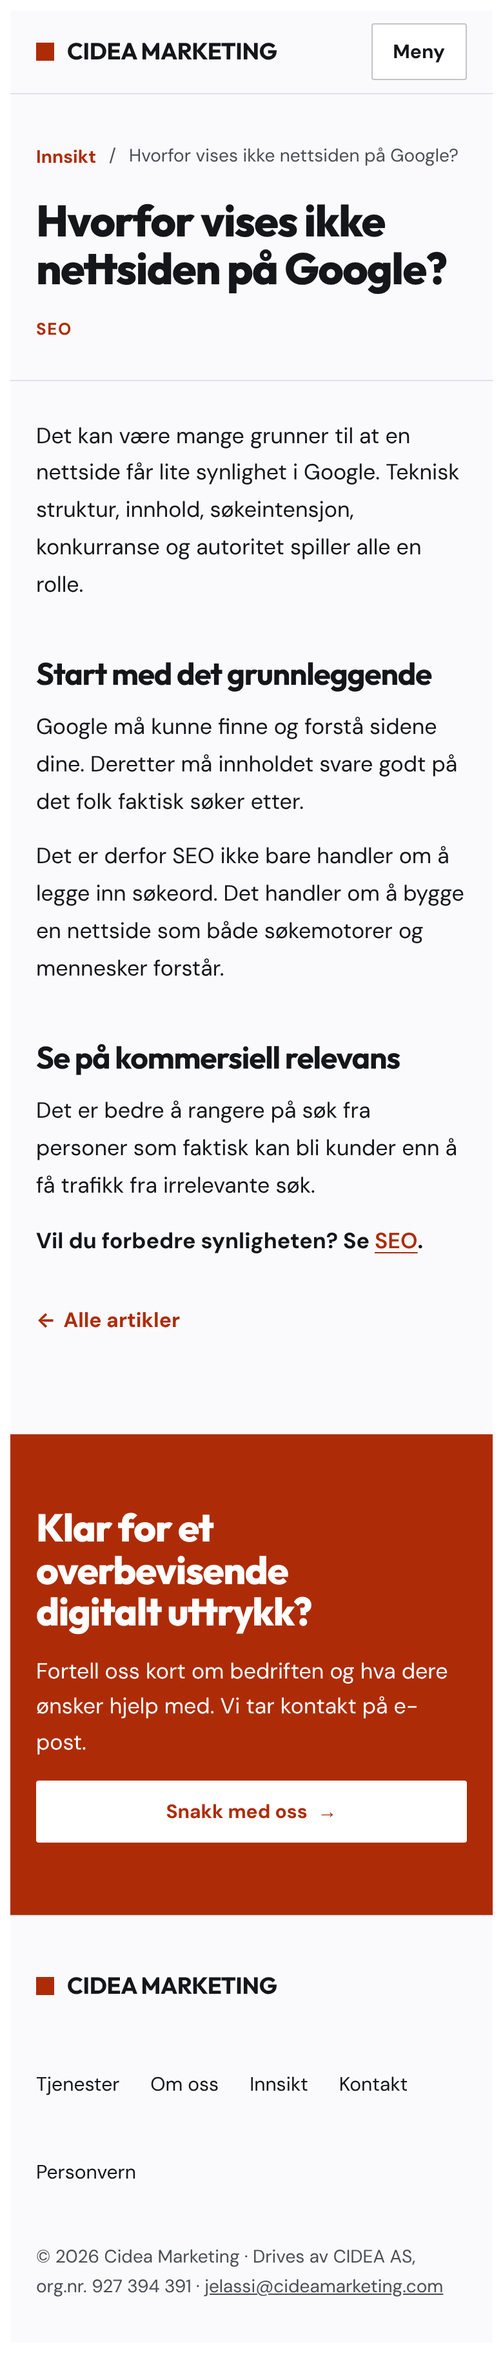
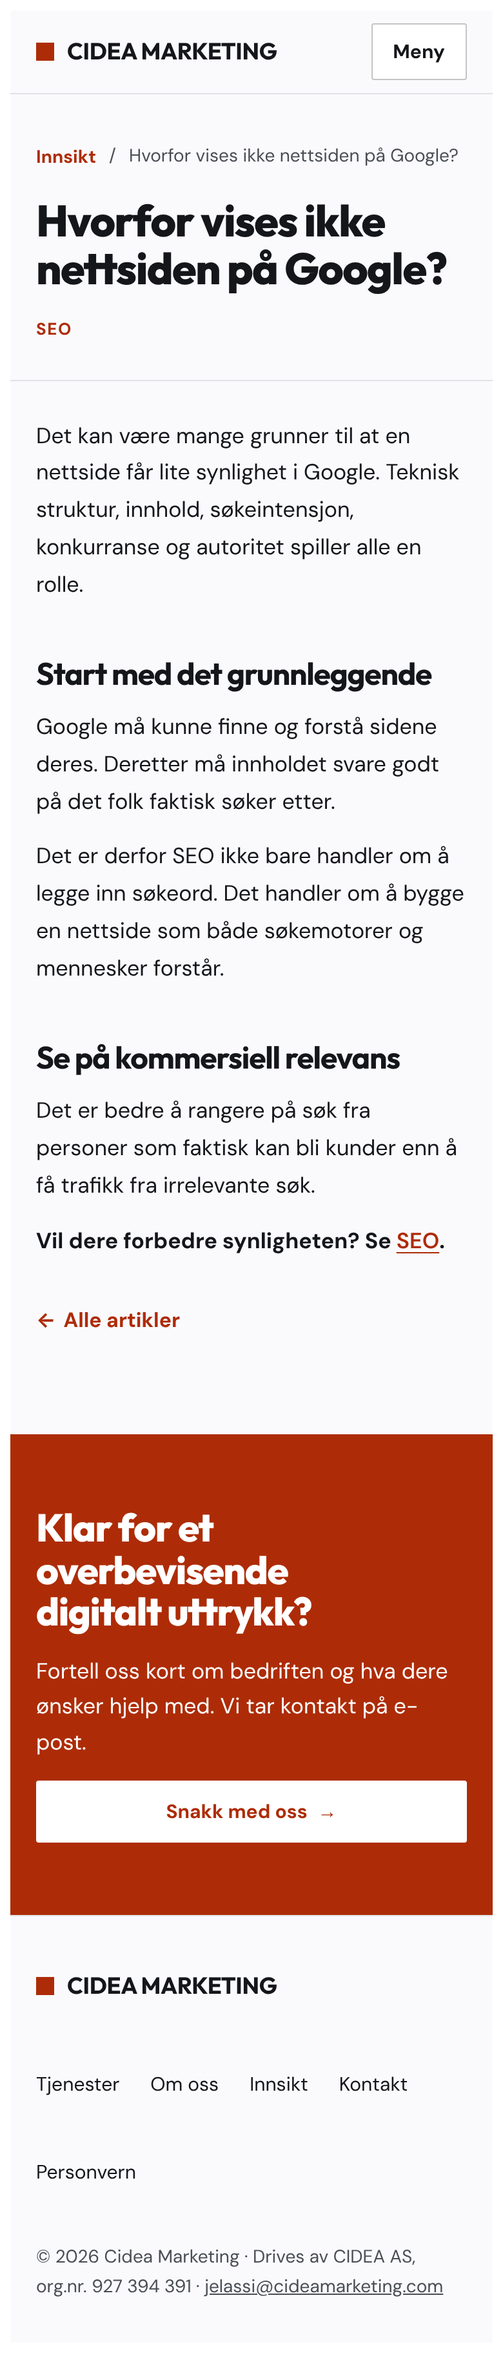
Fase 6: innholds- og funksjonsrevisjon
- Om oss: ny innledning (hva, hvem, hva vi tilbyr) og tjenesteoversikt; arbeidsprosess lenger ned
- Nytt verdibudskap på Tjenester og Om oss
- «dere» konsekvent i artikler, skjemafeil og Takk
- Nettleservalidering uten JavaScript; egne feil med JavaScript (tester S10a/S10b)
- E-postfeltet heter email (svaradresse i Netlify-varsel) og skjult subject
- Netlify-veiledning for eier; MOTTAK_BEKREFTET fortsatt false

Claude-Session: https://claude.ai/code/session_01NyXgMb2oFJFwpjEZkEWrv9

diff --git a/src/kontakt/Kontakt.jsx b/src/kontakt/Kontakt.jsx
@@ -1,4 +1,4 @@
-import React, { useRef, useState } from "react";
+import React, { useEffect, useRef, useState } from "react";
 import "../forside/forside.css";
 import "../sider/sider.css";
 import { Ramme, useMeta } from "../forside/Ramme.jsx";
@@ -8,6 +8,10 @@ import { selskap } from "../sider/tjenester-innhold.js";
 // Netlify finner skjemaet i den forhåndsrendrede HTML-en (data-netlify) ved deploy. Med JavaScript sendes det med
 // fetch og siden viser lasting, feil eller bekreftelse; uten JavaScript sendes det vanlig til /kontakt/takk.
 // Bekreftelse vises bare ved et vellykket svar (HTTP 2xx). Ingen falsk suksessmelding.
+// Validering: den forhåndsrendrede HTML-en har nettleserens egen validering (required, type=email, minlength), som
+// gjelder uten JavaScript. Når JavaScript er lastet, slås den av (noValidate) og erstattes av tilgjengelige feltfeil
+// og feiloppsummering. Klientsidevalidering er ingen beskyttelse på serveren; Netlify tar imot det som sendes.
+// Feltet heter «email» slik at Netlify bruker avsenderen som svaradresse i e-postvarselet; «subject» er emnelinjen.
 // MOTTAK_BEKREFTET settes til true først når eier har aktivert skjemaregistrering og e-postvarsel hos Netlify
 // og en testhenvendelse faktisk er mottatt (se docs/cinematic-pilot/phase6/README.md).
 const MOTTAK_BEKREFTET = false;
@@ -17,10 +21,10 @@ const tomFeil = {};
 
 function valider(data) {
   const f = {};
-  if (!data.get("navn")?.trim()) f.navn = "Skriv inn navnet ditt.";
-  const e = data.get("epost")?.trim() || "";
-  if (!e) f.epost = "Skriv inn e-postadressen din.";
-  else if (!/^[^\s@]+@[^\s@]+\.[^\s@]{2,}$/.test(e)) f.epost = "E-postadressen ser ikke riktig ut. Eksempel: navn@bedrift.no";
+  if (!data.get("navn")?.trim()) f.navn = "Skriv inn navn.";
+  const e = data.get("email")?.trim() || "";
+  if (!e) f.email = "Skriv inn e-postadresse.";
+  else if (!/^[^\s@]+@[^\s@]+\.[^\s@]{2,}$/.test(e)) f.email = "E-postadressen ser ikke riktig ut. Eksempel: navn@bedrift.no";
   if (!data.get("tema")) f.tema = "Velg hva henvendelsen gjelder.";
   const m = data.get("melding")?.trim() || "";
   if (m.length < 10) f.melding = "Skriv en kort melding (minst 10 tegn).";
@@ -35,6 +39,8 @@ export default function Kontakt() {
   });
   const [status, setStatus] = useState("klar"); // klar | sender | sendt | feil
   const [feil, setFeil] = useState(tomFeil);
+  const [js, setJs] = useState(false); // false i forhåndsrendret HTML → nettleserens validering uten JavaScript
+  useEffect(() => setJs(true), []);
   const oppsummering = useRef(null);
   const bekreftelse = useRef(null);
   const feilmelding = useRef(null);
@@ -84,8 +90,9 @@ export default function Kontakt() {
               <p>Takk. Vi leser henvendelsen og svarer på e-post.</p>
             </div>
           ) : (
-            <form name="kontakt" method="POST" action="/kontakt/takk" data-netlify="true" netlify-honeypot="bot-felt" noValidate onSubmit={send}>
+            <form name="kontakt" method="POST" action="/kontakt/takk" data-netlify="true" netlify-honeypot="bot-felt" noValidate={js} onSubmit={send}>
               <input type="hidden" name="form-name" value="kontakt" />
+              <input type="hidden" name="subject" value="Ny henvendelse fra cideamarketing.com (%{submissionId})" />
               <p className="sd-honning" aria-hidden="true"><label>Ikke fyll ut dette feltet <input name="bot-felt" tabIndex={-1} autoComplete="off" /></label></p>
 
               {antallFeil > 0 && (
@@ -105,23 +112,23 @@ export default function Kontakt() {
                 <input {...felt("bedrift")} type="text" autoComplete="organization" />
               </div>
               <div className="sd-felt">
-                <label htmlFor="k-epost">E-post</label>
-                <input {...felt("epost", true)} type="email" autoComplete="email" inputMode="email" required />
-                <p className="sd-hjelp" id="k-epost-hjelp">Vi svarer på denne adressen.</p>
-                <Feil navn="epost" />
+                <label htmlFor="k-email">E-post</label>
+                <input {...felt("email", true)} type="email" autoComplete="email" inputMode="email" required />
+                <p className="sd-hjelp" id="k-email-hjelp">Vi svarer på denne adressen.</p>
+                <Feil navn="email" />
               </div>
               <fieldset className="sd-felt" aria-describedby={feil.tema ? "k-tema-feil" : undefined}>
                 <legend>Hva gjelder det?</legend>
                 <div className="sd-valg">
                   {temaer.map((t, i) => (
-                    <label key={t} className="sd-valg-alt"><input type="radio" id={`k-tema-${i}`} name="tema" value={t} aria-invalid={feil.tema ? "true" : undefined} /> {t}</label>
+                    <label key={t} className="sd-valg-alt"><input type="radio" id={`k-tema-${i}`} name="tema" value={t} required aria-invalid={feil.tema ? "true" : undefined} /> {t}</label>
                   ))}
                 </div>
                 <Feil navn="tema" />
               </fieldset>
               <div className="sd-felt">
                 <label htmlFor="k-melding">Melding</label>
-                <textarea {...felt("melding", true)} rows={6} required />
+                <textarea {...felt("melding", true)} rows={6} required minLength={10} />
                 <p className="sd-hjelp" id="k-melding-hjelp">Fortell kort om bedriften og hva dere ønsker hjelp med.</p>
                 <Feil navn="melding" />
               </div>

diff --git a/src/sider/Sider.jsx b/src/sider/Sider.jsx
@@ -72,7 +72,7 @@ export function Tjenester() {
                 <h2><a href={t.sti}>{t.navn}</a></h2>
                 <p className="sd-tjeneste-ingress">{t.ingress}</p>
                 <p>{t.behov}</p>
-                <a className="sd-lenke" href={t.sti} aria-hidden="true" tabIndex={-1}>Les om {t.navn.toLowerCase()} <span>→</span></a>
+                <a className="sd-lenke" href={t.sti} aria-hidden="true" tabIndex={-1}>Les om {t.navn === "SEO" ? t.navn : t.navn.toLowerCase()} <span>→</span></a>
               </li>
             ))}
           </ul>
@@ -80,8 +80,8 @@ export function Tjenester() {
       </section>
       <section className="cm-seksjon cm-lys sd-seksjon" aria-labelledby="usikker">
         <div className="cm-wrap sd-smal">
-          <h2 id="usikker">Usikre på hva dere trenger?</h2>
-          <p>Vi anbefaler det minste tiltaket som hjelper. Noen ganger er dagens nettside god nok og trenger bare forbedringer. Da sier vi det.</p>
+          <h2 id="usikker">Riktige tiltak for bedriften deres</h2>
+          <p>Vi tar utgangspunkt i målene deres og prioriterer tiltakene som støtter dem. Noen ganger betyr det å forbedre det dere allerede har. Andre ganger trengs en ny løsning.</p>
           <a className="cm-knapp" href="/kontakt">Snakk med oss <span aria-hidden="true">→</span></a>
         </div>
       </section>
@@ -126,10 +126,22 @@ export function TjenesteSide({ t }) {
 
 /* ---------- Om oss ---------- */
 export function OmOss() {
-  useMeta({ tittel: "Om oss | Cidea Marketing", beskrivelse: "Slik jobber Cidea Marketing – fra første avklaring til videreutvikling.", sti: "/om-oss" });
+  useMeta({ tittel: "Om oss | Cidea Marketing", beskrivelse: "Cidea Marketing hjelper bedrifter med nettsider, merkevarebygging, SEO og digital markedsføring.", sti: "/om-oss" });
   return (
     <Ramme aktiv="/om-oss">
-      <Sidehode tittel="Slik jobber vi – fra første avklaring til videreutvikling." ingress="Vi jobber med bedrifter over tid: fra første avklaring til videreutvikling etter lansering." />
+      <Sidehode tittel="Om Cidea Marketing" ingress="Cidea Marketing hjelper bedrifter med å bli enklere å forstå, finne og velge på nett. Vi lager nettsider, bygger merkevarer og jobber med SEO og digital markedsføring – og kan videreutvikle løsningene etter lansering." />
+      <section className="cm-seksjon sd-seksjon sd-tett" aria-labelledby="tilbyr">
+        <div className="cm-wrap sd-to">
+          <h2 id="tilbyr">Hva vi tilbyr</h2>
+          <dl className="sd-rader">{tjenesteSider.map(t => <div key={t.sti}><dt><a href={t.sti}>{t.navn}</a></dt><dd>{t.ingress}</dd></div>)}</dl>
+        </div>
+      </section>
+      <section className="cm-seksjon cm-lys sd-seksjon" aria-labelledby="anbefalinger">
+        <div className="cm-wrap sd-to">
+          <h2 id="anbefalinger">Anbefalinger ut fra målene deres</h2>
+          <p className="sd-brod">Vi anbefaler det som faktisk støtter målene deres, ikke mest mulig. Er nettsiden eller merkevaren dere har god nok, sier vi det og foreslår forbedringer i stedet for noe nytt.</p>
+        </div>
+      </section>
       <Steg tittel="Slik jobber vi" id="slik" steg={[
         ["Avklare behov", "Vi går gjennom virksomheten, målgruppen og målene."],
         ["Designe og utvikle", "Vi lager struktur, design og innhold og bygger løsningen."],
@@ -146,13 +158,7 @@ export function OmOss() {
           </ul>
         </div>
       </section>
-      <section className="cm-seksjon cm-lys sd-seksjon" aria-labelledby="minste">
-        <div className="cm-wrap sd-to">
-          <h2 id="minste">Det minste tiltaket som hjelper</h2>
-          <p className="sd-brod">Vi selger ikke en ny nettside når den dere har, er god nok. Vi anbefaler det minste tiltaket som hjelper, og bygger videre derfra.</p>
-        </div>
-      </section>
-      <section className="cm-seksjon sd-seksjon" aria-labelledby="selskapet">
+      <section className="cm-seksjon cm-lys sd-seksjon" aria-labelledby="selskapet">
         <div className="cm-wrap sd-to">
           <h2 id="selskapet">Selskapet</h2>
           <div className="sd-brod">
@@ -245,7 +251,7 @@ export function Takk() {
   useMeta({ tittel: "Henvendelsen er sendt | Cidea Marketing", beskrivelse: "Bekreftelse på henvendelse.", sti: "/kontakt/takk" });
   return (
     <Ramme aktiv="/kontakt">
-      <Sidehode tittel="Henvendelsen er sendt" ingress="Når du kommer hit etter å ha sendt skjemaet, har skjemaløsningen tatt imot meldingen. Vi leser henvendelsen og svarer på e-post." />
+      <Sidehode tittel="Henvendelsen er sendt" ingress="Takk for henvendelsen. Skjemaløsningen har tatt imot meldingen, og vi svarer på e-post." />
       <div className="cm-wrap sd-avslutt"><a className="cm-lenke" href="/tjenester">Se tjenestene <span aria-hidden="true">→</span></a></div>
     </Ramme>
   );

diff --git a/src/ruter.jsx b/src/ruter.jsx
@@ -16,7 +16,7 @@ export const ruter = {
   // Prototype og foreslått forside i forhåndsvisningsflyten (fase 5, ikke godkjent): skal ikke indekseres.
   "/konsept-scroll": { komponent: KonseptScroll, tittel: "Konsept: Fra ord til gjennomslag | Cidea Marketing", beskrivelse: "Prototype av en scrollstyrt forside for Cidea Marketing. Ikke publisert som forside.", robots: "noindex, nofollow" },
   "/tjenester": { komponent: Tjenester, tittel: "Tjenester | Cidea Marketing", beskrivelse: "Nettsider, merkevarebygging, SEO og digital markedsføring for bedrifter." },
-  "/om-oss": { komponent: OmOss, tittel: "Om oss | Cidea Marketing", beskrivelse: "Slik jobber Cidea Marketing – fra første avklaring til videreutvikling." },
+  "/om-oss": { komponent: OmOss, tittel: "Om oss | Cidea Marketing", beskrivelse: "Cidea Marketing hjelper bedrifter med nettsider, merkevarebygging, SEO og digital markedsføring." },
   "/blog": { komponent: Innsikt, tittel: "Innsikt | Cidea Marketing", beskrivelse: "Artikler om nettsider, synlighet og merkevare." },
   "/kontakt": { komponent: Kontakt, tittel: "Kontakt | Cidea Marketing", beskrivelse: "Ta kontakt med Cidea Marketing om nettsider, merkevarebygging, SEO eller digital markedsføring." },
   "/kontakt/takk": { komponent: Takk, tittel: "Henvendelsen er sendt | Cidea Marketing", beskrivelse: "Bekreftelse på henvendelse.", robots: "noindex, follow" },

diff --git a/src/sider/sider.css b/src/sider/sider.css
@@ -30,6 +30,7 @@
 .sd-rader > div { display: grid; grid-template-columns: minmax(0, 2fr) minmax(0, 3fr); gap: 4px 32px; padding: 18px 0; border-top: 1px solid rgba(20, 22, 25, .14); }
 .sd-rader > div:last-child { border-bottom: 1px solid rgba(20, 22, 25, .14); }
 .sd-rader dt { font: 600 19px/1.35 "Outfit", system-ui, sans-serif; }
+.sd-rader dt a { color: var(--dyp); text-underline-offset: 4px; display: inline-flex; min-height: 24px; align-items: center; }
 .sd-rader dd { margin: 0; color: var(--dempet); }
 
 /* Punktlister uten nummerering */

diff --git a/docs/cinematic-pilot/phase6/README.md b/docs/cinematic-pilot/phase6/README.md
@@ -11,12 +11,12 @@ Forhåndsvisning: `https://deploy-preview-13--cideamarketing.netlify.app` + stie
 |---|---|---|---|
 | Foreslått forside (arbeidsversjon) | `/konsept-scroll` | Uendret prototype med bevegelse og bildeplassholder. `noindex, nofollow` | Fase 5 |
 | Ordinær forside | `/` | Uendret innhold, ny meny | Fase 5 |
-| Tjenester | `/tjenester` (ny) | Fire tjenester med behov og lenke, «det minste tiltaket som hjelper» | Fase 3-tekst + nye utkast |
+| Tjenester | `/tjenester` (ny) | Fire tjenester med behov og lenke, «Riktige tiltak for bedriften deres» | Fase 3-tekst + nye utkast |
 | Nettsider | `/websites` | Behov, leveranse (6), samarbeid (3 steg), videre, tre relevante artikler | Fase 3-skisse Nettsider |
 | Merkevarebygging | `/branding` | Behov, leveranse (6), samarbeid, videre | Fase 3-skisse Merkevarebygging |
 | SEO | `/seo` | Behov, leveranse (5), samarbeid, videre (ingen rangeringsløfter), én artikkel | Fase 3-skisse SEO |
 | Digital markedsføring og sosiale medier | `/digital-marketing` | Behov, leveranse (6, inkl. innhold for sosiale medier), samarbeid, videre (annonsebudsjett i tillegg) | Fase 3-skisse Digital markedsføring |
-| Om oss | `/om-oss` (ny) | Arbeidsmåte, hva dere kan forvente, «det minste tiltaket», bekreftede selskapsopplysninger | Fase 3-skisse Tilnærming, `commercial-offer.md`, Enhetsregisteret |
+| Om oss | `/om-oss` (ny) | Hva Cidea Marketing er og tilbyr, anbefalinger ut fra målene, arbeidsmåte, hva dere kan forvente, bekreftede selskapsopplysninger | Fase 3-skisse Tilnærming, `commercial-offer.md`, Enhetsregisteret |
 | Innsikt | `/blog` | De fire eksisterende artiklene | `blog/*.md` |
 | Artikler | `/blog/{slug}` × 4 | Hele artikkelteksten fra `blog/*.md` (før vistes bare ingressen) | `blog/*.md` |
 | Kontakt | `/kontakt` | Skjema, direkte e-post, selskapsopplysninger | Fase 3-skisse Kontakt |
@@ -33,8 +33,8 @@ Forhåndsvisning: `https://deploy-preview-13--cideamarketing.netlify.app` + stie
 | Del | Status |
 |---|---|
 | Teknikk | Netlify Forms, en del av eksisterende hosting. Skjemaet `kontakt` ligger i forhåndsrendret HTML (`data-netlify="true"`, `netlify-honeypot="bot-felt"`). Ingen nøkler eller hemmeligheter i koden, og ingen ny tjeneste |
-| Felt | Navn, bedrift (valgfritt), e-post, hva gjelder det (Nettsider, Merkevarebygging, SEO, Digital markedsføring, Annet), melding |
-| Validering | Påkrevde felt, e-postformat, minst 10 tegn i melding, feil per felt (`aria-invalid`, `aria-describedby`) og feiloppsummering med fokus |
+| Felt | Navn, bedrift (valgfritt), e-post (`name="email"`, slik at Netlify setter avsenderen som svaradresse i varselet), hva gjelder det (Nettsider, Merkevarebygging, SEO, Digital markedsføring, Annet), melding. Skjult `subject`: «Ny henvendelse fra cideamarketing.com (%{submissionId})» |
+| Validering | **Uten JavaScript:** nettleserens egen validering i den forhåndsrendrede HTML-en (`required` på navn, e-post, tema og melding, `type=email`, `minlength=10`). Ugyldig skjema sendes ikke. **Med JavaScript:** `novalidate` settes etter lasting, og egne feil per felt (`aria-invalid`, `aria-describedby`) og feiloppsummering med fokus tar over. Klientsidevalidering er ingen beskyttelse på serveren: Netlify tar imot det som sendes direkte |
 | Lasting, feil, bekreftelse | «Sender …» med deaktivert knapp. Ved feil: «Henvendelsen ble ikke sendt» med e-post som alternativ. Bekreftelsen vises **bare ved HTTP 2xx** |
 | Spam | Skjult honningfelle (stopper innsending i nettleseren; Netlify forkaster den i tillegg) |
 | Uten JavaScript | Vanlig POST til `/kontakt/takk` |
@@ -42,12 +42,20 @@ Forhåndsvisning: `https://deploy-preview-13--cideamarketing.netlify.app` + stie
 | **Ikke testet** | **Faktisk innsending til Netlify og mottak på e-post.** Det krever tilgang til Netlify, som skyøkten ikke har |
 | Ærlig merknad på siden | Til mottak er bekreftet, står det synlig at mottak ikke er bekreftet, med e-postadressen som alternativ (`MOTTAK_BEKREFTET = false` i `src/kontakt/Kontakt.jsx`) |
 
-**Konfigurasjon eier må gjøre før skjemaet kan tas i bruk:**
-1. Netlify → prosjektet `cideamarketing` → **Forms** → slå på skjemaregistrering (form detection), hvis den er av. Bygg forhåndsvisningen på nytt, og kontroller at skjemaet «kontakt» vises i listen.
-2. **Forms → Form notifications** → legg til e-postvarsel til `jelassi@cideamarketing.com` for skjemaet «kontakt».
-3. Send en testhenvendelse fra forhåndsvisningen. Kontroller at den vises i Netlify (Forms → kontakt) **og** kommer fram på e-post.
-4. Fastsett lagringstid for henvendelser, og om Netlifys overføringsgrunnlag skal beskrives. Hullet er tydelig merket på `/personvern`.
-5. Deretter: sett `MOTTAK_BEKREFTET = true`, og fjern merknaden.
+**Netlify-test – veiledning til eier** (ingen kontoinnstillinger er endret og ingen testinnsending er gjort fra skyøkten):
+
+Kilder: Netlifys offisielle dokumentasjon (Forms setup, Form notifications) via søk, og Netlifys egen skjemaveiledning i `@netlify/agent-runner-cli` 2.4.0. `docs.netlify.com` kunne ikke åpnes direkte fra skyøkten, så navn på menyvalg kan avvike litt.
+
+Kontrollert i forhåndsrendret HTML (`dist/kontakt/index.html`): `<form name="kontakt" data-netlify="true" netlify-honeypot="bot-felt" action="/kontakt/takk" method="POST">` med skjult `form-name=kontakt`. Siden er statisk HTML, så Netlify kan finne skjemaet ved deploy uten ekstra skjelettfil.
+
+1. **Slå på skjemaregistrering:** Netlify → prosjektet `cideamarketing` → **Forms**. Står det «Enable form detection», trykk på den. Det virker først fra neste deploy, så start en ny deploy av PR-forhåndsvisningen (Deploys → Trigger deploy, eller en ny commit).
+2. **Kontroller registreringen:** under **Forms** skal skjemaet **«kontakt»** vises etter deployen. Vises det ikke, sjekk deployloggen («form detection»).
+3. **E-postvarsel:** **Project configuration → Notifications → Emails and webhooks → Form submission notifications → Add notification → Email notification**. Skjema: «kontakt». E-post: `jelassi@cideamarketing.com`. Lagre.
+4. **Test innsending:** åpne `https://deploy-preview-13--cideamarketing.netlify.app/kontakt`, fyll ut med reelle testdata og send. Forventet: «Henvendelsen er sendt».
+5. **Bekreft mottak:** Netlify → Forms → kontakt: henvendelsen skal ligge der (sjekk også **Spam**-listen). Innboksen `jelassi@cideamarketing.com` skal få varselet med emnet «Ny henvendelse fra cideamarketing.com (…)». Svar-knappen skal gå til avsenderens adresse.
+6. **Gi beskjed** om resultatet. Først etter bekreftet mottak i både Netlify og innboks settes `MOTTAK_BEKREFTET = true` (Claude gjør endringen).
+
+Gratisplanen har 100 innsendinger i måneden. Personvernhullene (lagringstid for henvendelser og om Netlifys overføringsgrunnlag skal beskrives) er **ikke løst**. De er fortsatt merket på `/personvern` og må avklares av eier før skjemaet tas i bruk.
 
 Skillet: «testet innsending» betyr at nettleseren fikk et 2xx-svar. «Bekreftet mottak» betyr at meldingen faktisk er sett i Netlify og i innboksen. Ingen av delene er gjort ennå.
 
@@ -59,17 +67,35 @@ Skillet: «testet innsending» betyr at nettleseren fikk et 2xx-svar. «Bekrefte
 
 ## Tekst til godkjenning (ChatGPT/eier)
 
-- Nye utkast: «Hva vi hjelper med» og «Videre etter leveransen» på hver tjenesteside, ingressen på Tjenester og Om oss-teksten «Det minste tiltaket som hjelper». Dette er ny tekst; resten er fra fase 3 eller artiklene.
-- Ord fra fase 3-skissene som lovet mer enn vi kan dokumentere er dempet («alltid fungerer», «autoritært uttrykk», «størst effekt», «basert på resultater»).
-- Artiklene bruker «du» og «din» (eksisterende tekst, uendret). Bare lenker til sider som ikke fantes er rettet (`/contact` → `/kontakt`, `./x.md` → `/blog/x`).
-- Om oss-H1 er ChatGPT-vedtaket for Tilnærming: «Slik jobber vi – fra første avklaring til videreutvikling.»
+**Innholdsrevisjon (2026-10-18):**
+- **Om oss**: H1 «Om Cidea Marketing».
+  - Ingress: «Cidea Marketing hjelper bedrifter med å bli enklere å forstå, finne og velge på nett. Vi lager nettsider, bygger merkevarer og jobber med SEO og digital markedsføring – og kan videreutvikle løsningene etter lansering.»
+  - Deretter «Hva vi tilbyr»: de fire tjenestene med lenke og tjenestens godkjente ingress.
+  - Så «Anbefalinger ut fra målene deres»: «Vi anbefaler det som faktisk støtter målene deres, ikke mest mulig. Er nettsiden eller merkevaren dere har god nok, sier vi det og foreslår forbedringer i stedet for noe nytt.»
+  - Arbeidsprosessen (Slik jobber vi), Hva dere kan forvente og Selskapet står lenger ned, uten gjentakelse.
+  - Metabeskrivelse: «Cidea Marketing hjelper bedrifter med nettsider, merkevarebygging, SEO og digital markedsføring.»
+- **Tjenester**: «Riktige tiltak for bedriften deres». «Vi tar utgangspunkt i målene deres og prioriterer tiltakene som støtter dem. Noen ganger betyr det å forbedre det dere allerede har. Andre ganger trengs en ny løsning.»
+- «Det minste tiltaket som hjelper» er fjernet fra begge sider.
+
+**«Dere» konsekvent:**
+- Artikler: hvor-mye «Før dere bygger», «hva dere ønsker».
+- hvordan-fa: «hvem dere hjelper, hva dere tilbyr», «Test før dere bygger mer», «Før dere legger til», «Vil dere ha en konkret vurdering av nettsiden deres?».
+- hvorfor-vises: «sidene deres», «Vil dere forbedre synligheten?».
+- Skjemaet: «Skriv inn navn.», «Skriv inn e-postadresse.».
+- Takk: «Takk for henvendelsen. Skjemaløsningen har tatt imot meldingen, og vi svarer på e-post.»
+- Søk etter du/deg/din/ditt/dine i `blog/`, `src/` og `index.html` gir null treff.
+- Sitater fantes ikke. Den låste Gullkornet-teksten bruker ikke «du» og er uendret.
+
+**Tidligere:**
+- Ord fra fase 3-skissene som lovet mer enn vi kan dokumentere er dempet.
+- Lenker til sider som ikke fantes er rettet.
 
 ## Tester (skyøkt, Chromium 141 headless via Playwright 1.56.1)
 
 | Kjøring | Resultat |
 |---|---|
 | `npm run build` | OK, 17 sider forhåndsrendret |
-| `node tests/nettsted.test.mjs` (ny) | **33 av 33**: direktelenke og oppdatering for 15 sider + 404 (S1), alle interne lenker (S2), lik meny, logo og noindex (S3), overflow, avkuttet tekst og språk ved 390/768/1440 (S4), mobilmeny med tastatur (S5), synlig tastaturfokus (S6), kontaktskjema (S7a–e), uten JS (S8), hele artikler (S9) |
+| `node tests/nettsted.test.mjs` (ny) | **35 av 35**: direktelenke og oppdatering for 15 sider + 404 (S1), alle interne lenker (S2), lik meny, logo og noindex (S3), overflow, avkuttet tekst og språk ved 390/768/1440 (S4), mobilmeny med tastatur (S5), synlig tastaturfokus (S6), kontaktskjema (S7a–e), uten JS (S8), hele artikler (S9), validering uten JS (S10a: tomt og ugyldig skjema sendes ikke, gyldig sendes til `/kontakt/takk`) og med JS (S10b) |
 | `npm run test:forside` | 28/30, **2 ikke kjørt** (Firefox og WebKit er ikke installert i skymiljøet) |
 | `node tests/qa.mjs` | 86/86 (320–1440 for `/` og `/kontakt`) |
 | `node tests/konsept-scroll.test.mjs` | 28/30, **2 ikke kjørt** (Firefox og WebKit) |
@@ -89,7 +115,7 @@ Begrensninger: bare Chromium. Ingen ekte telefon, ingen skjermleser, og ingen in
 
 ## Oversiktsbilder
 
-`bilder/` – fullside, redusert bevegelse: `{side}-1440.png` og `{side}-390.png` for tjenester, websites, branding, seo, digital-marketing, om-oss, blog, fire artikler, kontakt, personvern og 404, samt `kontakt-bekreftelse-simulert-390.png` (bekreftelse ved simulert 2xx-svar, ikke ekte levering).
+`bilder/` – fullside, redusert bevegelse. Om oss og Tjenester også ved 768 (`om-oss-768.png`, `tjenester-768.png`, 0 px overflow, kontrollert visuelt ved 390/768/1440): `{side}-1440.png` og `{side}-390.png` for tjenester, websites, branding, seo, digital-marketing, om-oss, blog, fire artikler, kontakt, personvern og 404, samt `kontakt-bekreftelse-simulert-390.png` (bekreftelse ved simulert 2xx-svar, ikke ekte levering).
 
 ## Kjente mangler
 

diff --git a/tests/NETTSTED-RESULTAT.md b/tests/NETTSTED-RESULTAT.md
@@ -1,6 +1,6 @@
 # Testresultat – fase 6, hele nettstedet
 
-Kjørt 2026-10-18T12:57:31.003Z i Chromium (Playwright) mot `dist/` med Netlify-regelen (fil → mappe/index.html → 404.html; POST → 405 fordi det ikke finnes skjemamottak lokalt). Automatiske målinger – ikke estetisk godkjenning og ikke en WCAG-samsvarserklæring.
+Kjørt 2026-10-18T13:27:42.831Z i Chromium (Playwright) mot `dist/` med Netlify-regelen (fil → mappe/index.html → 404.html; POST → 405 fordi det ikke finnes skjemamottak lokalt). Automatiske målinger – ikke estetisk godkjenning og ikke en WCAG-samsvarserklæring.
 
 | ID | Test | Resultat | Måling |
 |---|---|---|---|
@@ -10,7 +10,7 @@ Kjørt 2026-10-18T12:57:31.003Z i Chromium (Playwright) mot `dist/` med Netlify-
 | S1 /branding | Direktelenke og oppdatering | OK | HTTP 200, H1 «Merkevarebygging som gjør bedriften lettere å kjen», tittel «Merkevarebygging | Cidea Marketing», robots index,follow, forhåndsrendret /branding, feil: ingen |
 | S1 /seo | Direktelenke og oppdatering | OK | HTTP 200, H1 «SEO som bygger synlighet over tid.», tittel «SEO | Cidea Marketing», robots index,follow, forhåndsrendret /seo, feil: ingen |
 | S1 /digital-marketing | Direktelenke og oppdatering | OK | HTTP 200, H1 «Digital markedsføring rundt et tydelig mål.», tittel «Digital markedsføring og sosiale medier », robots index,follow, forhåndsrendret /digital-marketing, feil: ingen |
-| S1 /om-oss | Direktelenke og oppdatering | OK | HTTP 200, H1 «Slik jobber vi – fra første avklaring til videreut», tittel «Om oss | Cidea Marketing», robots index,follow, forhåndsrendret /om-oss, feil: ingen |
+| S1 /om-oss | Direktelenke og oppdatering | OK | HTTP 200, H1 «Om Cidea Marketing», tittel «Om oss | Cidea Marketing», robots index,follow, forhåndsrendret /om-oss, feil: ingen |
 | S1 /blog | Direktelenke og oppdatering | OK | HTTP 200, H1 «Innsikt», tittel «Innsikt | Cidea Marketing», robots index,follow, forhåndsrendret /blog, feil: ingen |
 | S1 /blog/hvor-mye-koster-en-nettside | Direktelenke og oppdatering | OK | HTTP 200, H1 «Hvor mye koster en nettside?», tittel «Hvor mye koster en nettside? | Cidea Mar», robots index,follow, forhåndsrendret /blog/hvor-mye-koster-en-nettside, feil: ingen |
 | S1 /blog/hva-bor-en-god-bedriftsnettside-inneholde | Direktelenke og oppdatering | OK | HTTP 200, H1 «Hva bør en god bedriftsnettside inneholde?», tittel «Hva bør en god bedriftsnettside innehold», robots index,follow, forhåndsrendret /blog/hva-bor-en-god-bedriftsnettside-inneholde, feil: ingen |
@@ -30,12 +30,14 @@ Kjørt 2026-10-18T12:57:31.003Z i Chromium (Playwright) mot `dist/` med Netlify-
 | S6 /websites | Tastatur: synlig fokus helt til bunnteksten | OK | 19 fokusmål |
 | S6 /blog/hvor-mye-koster-en-nettside | Tastatur: synlig fokus helt til bunnteksten | OK | 16 fokusmål |
 | S6 /kontakt | Tastatur: synlig fokus helt til bunnteksten | OK | 21 fokusmål |
-| S7a | Skjema: tomt skjema gir feilmelding per felt og fokus på oppsummering | OK | ugyldige felt: navn, epost, tema, melding; 4 feilmeldinger; fokus på alert |
+| S7a | Skjema: tomt skjema gir feilmelding per felt og fokus på oppsummering | OK | ugyldige felt: navn, email, tema, melding; 4 feilmeldinger; fokus på alert |
 | S7b | Skjema: ugyldig e-post avvises | OK | «E-postadressen ser ikke riktig ut. Eksempel: navn@bedrift.no» |
-| S7c | Skjema: sender riktige felt; uten mottak (HTTP 405 lokalt) vises feil, ikke suksess | OK | POST / med felt form-name, bot-felt, navn, bedrift, epost, tema, melding; resultat «Henvendelsen ble ikke sendt», suksess vist: false; merknad om ubekreftet mottak synlig: true; under sending: «Send henvendelse →», deaktivert false |
+| S7c | Skjema: sender riktige felt; uten mottak (HTTP 405 lokalt) vises feil, ikke suksess | OK | POST / med felt form-name, subject, bot-felt, navn, bedrift, email, tema, melding; resultat «Henvendelsen ble ikke sendt», suksess vist: false; merknad om ubekreftet mottak synlig: true; under sending: «Sender …», deaktivert true |
 | S7d | Skjema: bekreftelse vises bare ved HTTP 2xx (simulert svar) | OK | simulert 200 → «Henvendelsen er sendt», fokus på bekreftelsen |
 | S7e | Skjema: honningfelle er skjult og stopper innsending | OK | innsending stoppet: true, feltet utenfor skjermen: true, tabIndex -1 |
 | S8 | Uten JavaScript: innhold, meny og skjema tilgjengelig | OK | 7 sider |
+| S10a | Uten JavaScript: nettleserens validering stopper ugyldig skjema, gyldig skjema sendes | OK | novalidate uten JS: false; tomt: sendt false, ugyldige navn/email/tema/melding; ugyldig e-post og kort melding: sendt false, ugyldige email/melding; gyldig: sendt til /kontakt/takk (HTTP 405 lokalt) |
+| S10b | Med JavaScript: novalidate satt, egen validering (meldingslengde) med feltfeil | OK | novalidate true, feil «Skriv en kort melding (minst 10 tegn).» |
 | S9 | Artikkelsidene viser hele artikkelen | OK | 4 artikler kontrollert mot tekst fra blog/*.md |
 
-**33 av 33 bestått.**
+**35 av 35 bestått.**

diff --git a/blog/hvordan-fa-flere-henvendelser-fra-nettsiden.md b/blog/hvordan-fa-flere-henvendelser-fra-nettsiden.md
@@ -4,7 +4,7 @@ En nettside trenger ikke bare å se bra ut. Den må gjøre det enkelt for riktig
 
 ## Start med budskapet
 
-Besøkende bør raskt forstå hvem du hjelper, hva du tilbyr og hvorfor det er relevant. Uklare budskap gjør at potensielle kunder forsvinner før de vurderer å ta kontakt.
+Besøkende bør raskt forstå hvem dere hjelper, hva dere tilbyr og hvorfor det er relevant. Uklare budskap gjør at potensielle kunder forsvinner før de vurderer å ta kontakt.
 
 ## Gjør neste steg tydelig
 
@@ -14,8 +14,8 @@ En god nettside bør ha en naturlig vei videre. Det kan være å kontakte virkso
 
 Eksempler på arbeid, konkrete forklaringer, kundeuttalelser og tydelig informasjon om virksomheten kan redusere usikkerhet.
 
-## Test før du bygger mer
+## Test før dere bygger mer
 
-Før du legger til flere sider eller funksjoner, se på hvilke sider som faktisk får trafikk og hvor brukerne faller av. Små forbedringer på en eksisterende side kan være mer verdifulle enn en stor redesign.
+Før dere legger til flere sider eller funksjoner, se på hvilke sider som faktisk får trafikk og hvor brukerne faller av. Små forbedringer på en eksisterende side kan være mer verdifulle enn en stor redesign.
 
-Vil du ha en konkret vurdering av nettsiden din? [Få en uforpliktende vurdering](/contact).
+Vil dere ha en konkret vurdering av nettsiden deres? [Få en uforpliktende vurdering](/kontakt).

diff --git a/docs/cinematic-pilot/STATUS.md b/docs/cinematic-pilot/STATUS.md
@@ -53,6 +53,7 @@
   - Kontaktskjemaet (Netlify Forms) er bygget og testet lokalt, men **faktisk levering er ikke testet eller bekreftet**: skjemaregistrering og e-postvarsel må slås på i Netlify.
   - Tester (Chromium): nettsted 33/33, forside 28/30 + 2 ikke kjørt, QA 86/86, prototype 28/30 + 2 ikke kjørt.
   - Estetisk godkjenning gjenstår.
+- **Fase 6 – innholds- og funksjonsrevisjon (Claude Code skyøkt, 2026-10-18):** ny Om oss-innledning (hva Cidea Marketing er, hvem vi hjelper, hva vi tilbyr), nytt verdibudskap på Tjenester og Om oss, «dere» konsekvent i artikler, skjema og Takk, nettleserens egen validering uten JavaScript, e-postfeltet heter nå `email` (svaradresse i Netlify-varselet) og skjult `subject`. Netlify-veiledning for eier i `phase6/README.md`. `MOTTAK_BEKREFTET` er fortsatt `false`; levering er ikke testet. Tester (Chromium): nettsted 35/35, forside 28/30 + 2 ikke kjørt, QA 86/86, prototype 28/30 + 2 ikke kjørt. Fase 5 og 6 er fortsatt åpne.
 
 ## Neste konkrete oppgave
 

diff --git a/blog/hvorfor-vises-ikke-nettsiden-pa-google.md b/blog/hvorfor-vises-ikke-nettsiden-pa-google.md
@@ -4,7 +4,7 @@ Det kan være mange grunner til at en nettside får lite synlighet i Google. Tek
 
 ## Start med det grunnleggende
 
-Google må kunne finne og forstå sidene dine. Deretter må innholdet svare godt på det folk faktisk søker etter.
+Google må kunne finne og forstå sidene deres. Deretter må innholdet svare godt på det folk faktisk søker etter.
 
 Det er derfor SEO ikke bare handler om å legge inn søkeord. Det handler om å bygge en nettside som både søkemotorer og mennesker forstår.
 
@@ -12,4 +12,4 @@ Det er derfor SEO ikke bare handler om å legge inn søkeord. Det handler om å 
 
 Det er bedre å rangere på søk fra personer som faktisk kan bli kunder enn å få trafikk fra irrelevante søk.
 
-**Vil du forbedre synligheten? Se [SEO](/seo).**
+**Vil dere forbedre synligheten? Se [SEO](/seo).**

diff --git a/blog/hvor-mye-koster-en-nettside.md b/blog/hvor-mye-koster-en-nettside.md
@@ -21,8 +21,8 @@ En nettside bør vurderes ut fra hvilken jobb den skal gjøre. Hvis målet er fl
 
 En billig nettside som ikke blir funnet eller forstått kan derfor bli dyrere enn en gjennomtenkt løsning.
 
-## Før du bygger
+## Før dere bygger
 
-Definer hvem nettsiden skal hjelpe, hva de skal forstå og hva du ønsker at de skal gjøre etter besøket. Deretter kan teknologi og design velges rundt behovet.
+Definer hvem nettsiden skal hjelpe, hva de skal forstå og hva dere ønsker at de skal gjøre etter besøket. Deretter kan teknologi og design velges rundt behovet.
 
 Les også: [Hva bør en god bedriftsnettside inneholde?](./hva-bor-en-god-bedriftsnettside-inneholde.md)

diff --git a/tests/QA-RESULTAT.md b/tests/QA-RESULTAT.md
@@ -1,6 +1,6 @@
 # QA-resultat – fase 5.4 (faktisk side)
 
-Kjørt 2026-10-18T12:58:15.118Z i Chromium mot `dist/` (Netlify-regel), med `prefers-reduced-motion: reduce` (sluttbildet). Automatiske målinger – **ikke en WCAG-samsvarserklæring**; skjermleser og manuell gjennomgang gjenstår.
+Kjørt 2026-10-18T13:28:29.412Z i Chromium mot `dist/` (Netlify-regel), med `prefers-reduced-motion: reduce` (sluttbildet). Automatiske målinger – **ikke en WCAG-samsvarserklæring**; skjermleser og manuell gjennomgang gjenstår.
 
 | Side | Bredde | Kontroll | Resultat | Måling |
 |---|---|---|---|---|

diff --git a/tests/KONSEPT-SCROLL-RESULTAT.md b/tests/KONSEPT-SCROLL-RESULTAT.md
@@ -1,6 +1,6 @@
 # Testresultat – prototype /konsept-scroll
 
-Kjørt 2026-10-18T12:58:51.164Z mot `dist/` (Netlify-regel). Chromium, og Firefox og WebKit fra Playwright der de er installert. Automatiske målinger, ikke en WCAG-samsvarserklæring.
+Kjørt 2026-10-18T13:29:05.924Z mot `dist/` (Netlify-regel). Chromium, og Firefox og WebKit fra Playwright der de er installert. Automatiske målinger, ikke en WCAG-samsvarserklæring.
 
 | ID | Test | Resultat | Måling |
 |---|---|---|---|
